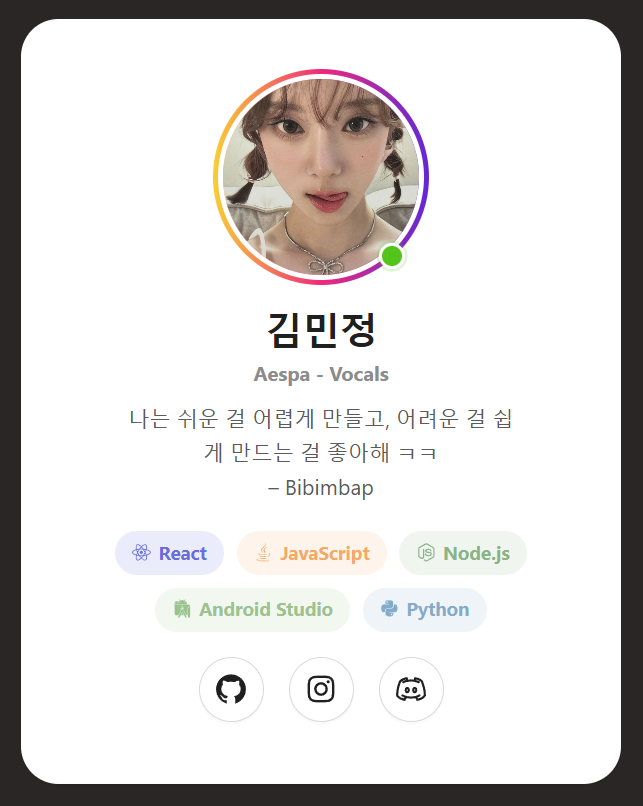
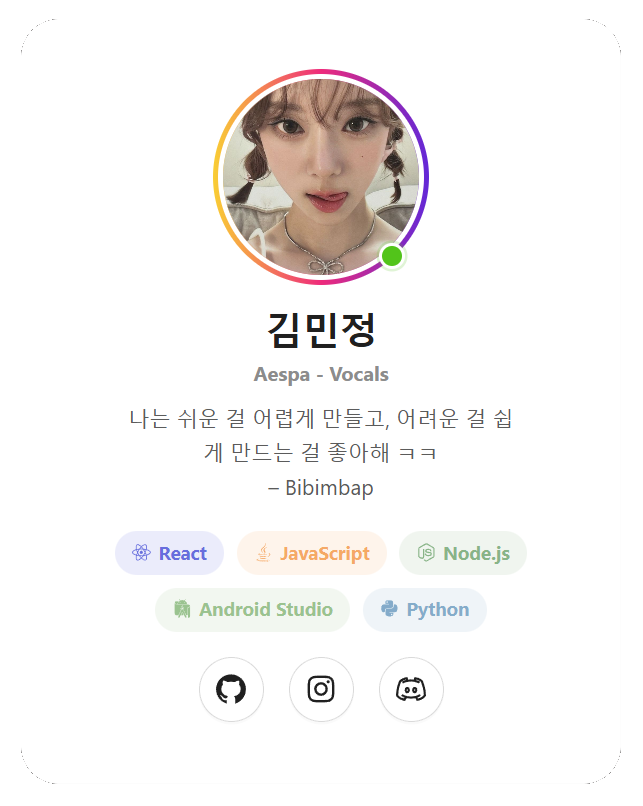
Last tweak md

Changed region(s): [[0.0, 0.0, 1.0, 1.0]]

diff --git a/README.md b/README.md
@@ -1,8 +1,10 @@
-## Simple Profile Card
+<h2 align="center">Simple Profile Card</h2>
 
-![Website screenshot](./public/output.png)
+<p align="center">
+  <img src="./public/output.png" alt="Website screenshot" width="900" />
+</p>
 
-# About
+<h1 align="center">About</h1>
 
 This project is a small React app that shows a basic user profile card using static information. It is not a big app or a fancy system — it is just a simple page made to practice UI design, component structure, and styling.
 
